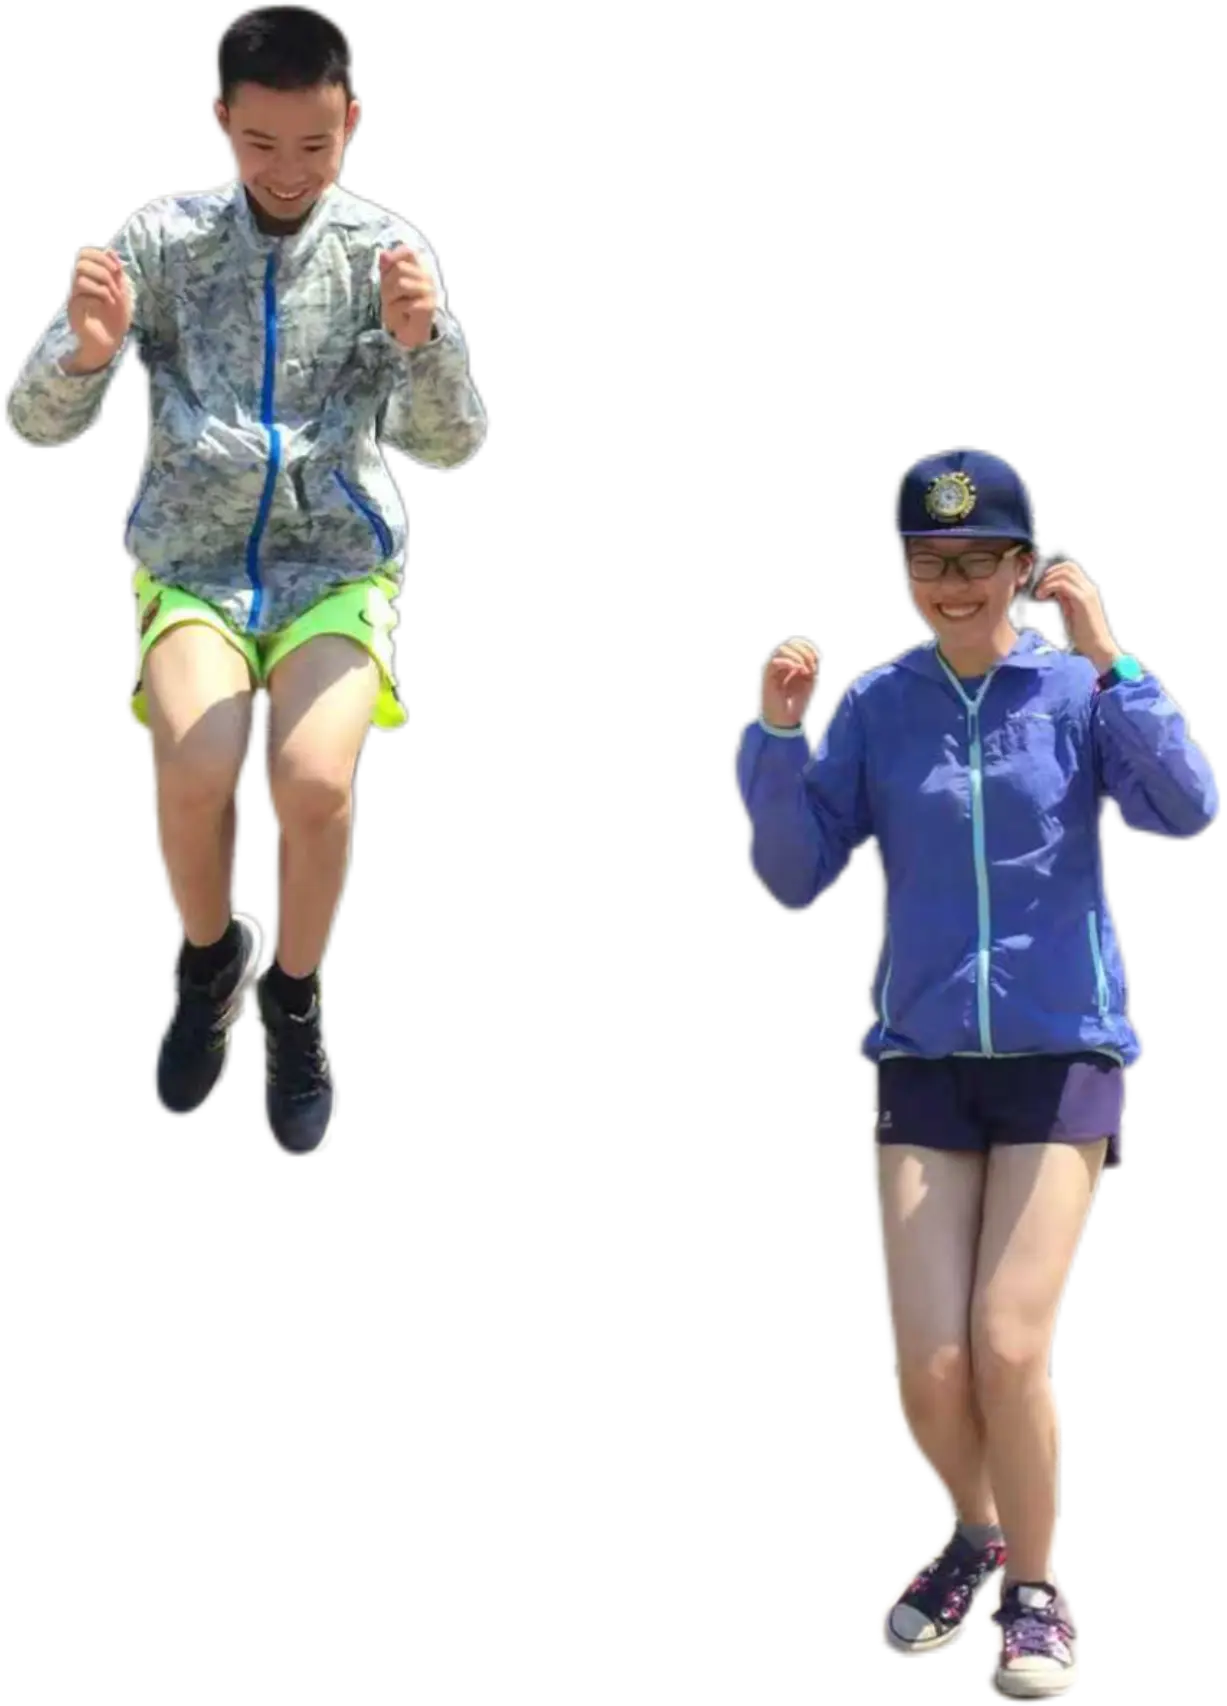
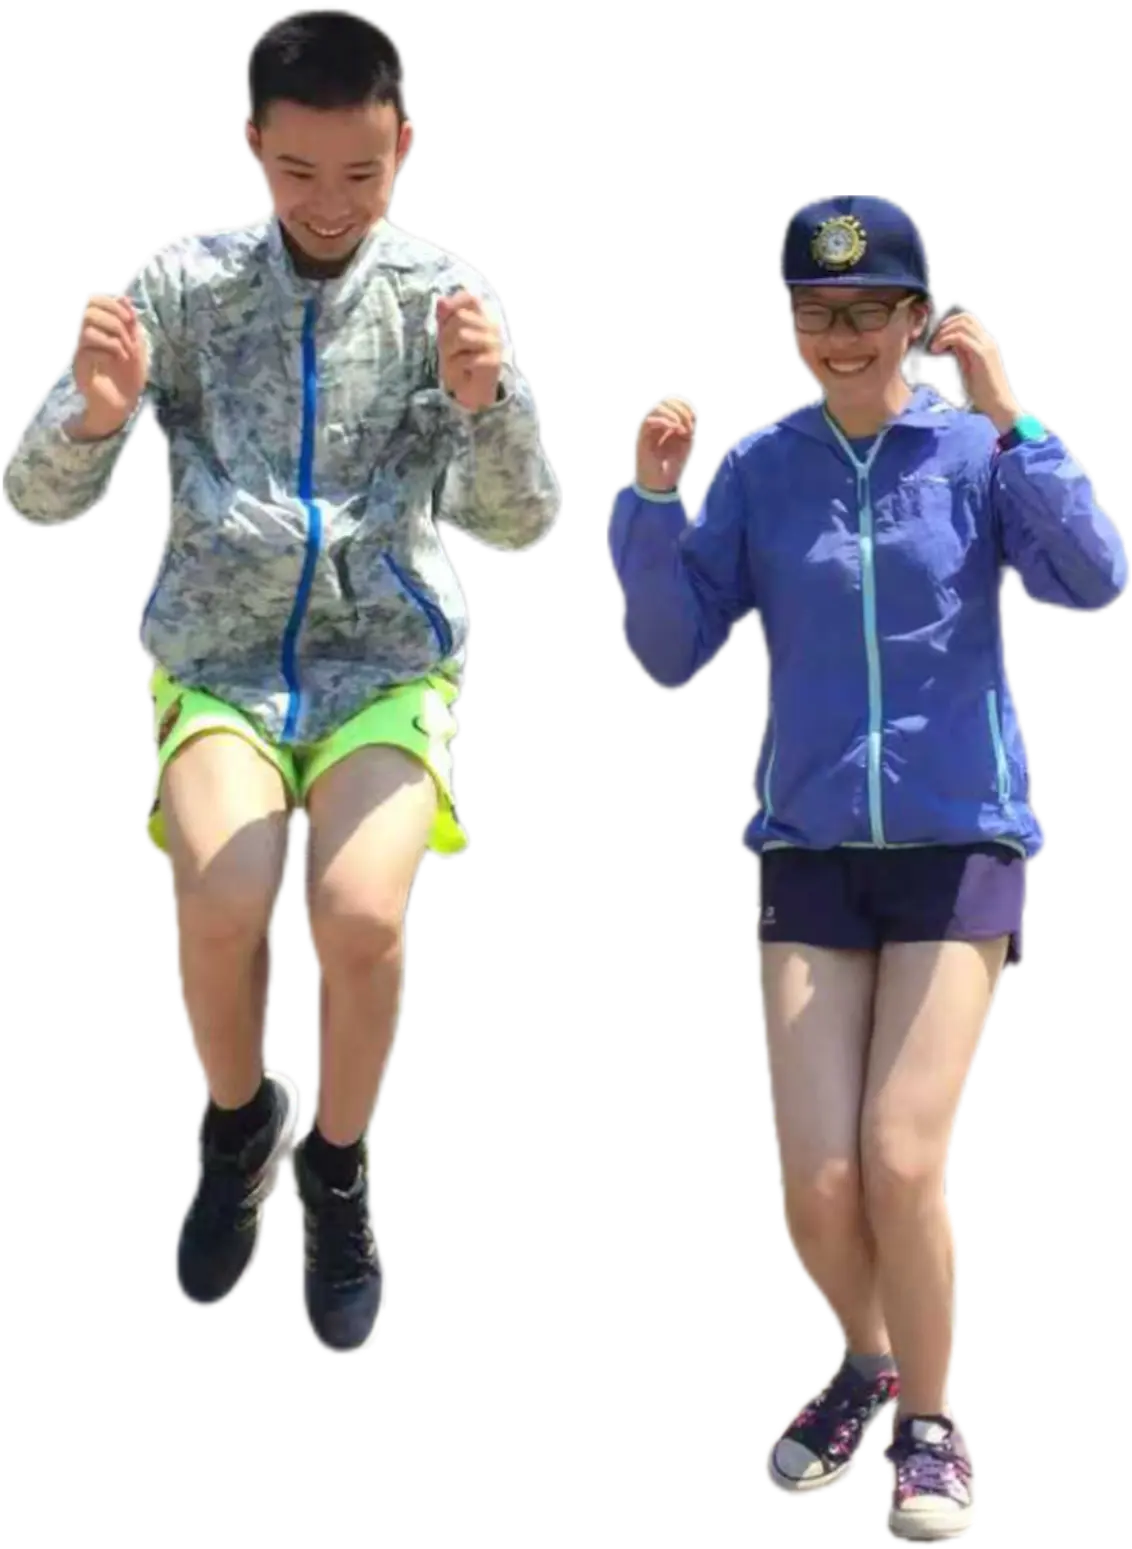
update: page school years

diff --git a/src/pages/index/components/PageSchoolYears.tsx b/src/pages/index/components/PageSchoolYears.tsx
@@ -1,0 +1,127 @@
+import React from "react";
+import { View, Text, Image } from "@tarojs/components";
+import { AnimatedView } from "../../../components/AnimatedView";
+import { YearTitle } from "../../../components/YearTitle";
+import {
+  PageReadyGate,
+  uniqueImageUrls,
+  usePageAnimationsReady,
+} from "../../../components/PageReadyGate";
+import { images } from "../../../utils/assets";
+import { getTimelineLineStyle } from "./distanceTimeline";
+import "./PageDistance.scss";
+
+interface PageSchoolYearsProps {
+  isActive: boolean;
+}
+
+interface SchoolEvent {
+  year: string;
+  label: string;
+  image: string;
+  tilt: number;
+  side: "left" | "right";
+  imageWidth: string;
+  offset: number;
+}
+
+const EVENTS: SchoolEvent[] = [
+  {
+    year: "2008",
+    label: "小学",
+    image: images.elementarySchool,
+    tilt: 0,
+    side: "right",
+    imageWidth: "min(200px, 50vw)",
+    offset: 70,
+  },
+  {
+    year: "2016",
+    label: "初中",
+    image: images.middleSchool,
+    tilt: 0,
+    side: "left",
+    imageWidth: "min(200px, 50vw)",
+    offset: 70,
+  },
+  {
+    year: "2019",
+    label: "高中",
+    image: images.highSchool,
+    tilt: 0,
+    side: "right",
+    imageWidth: "min(200px, 50vw)",
+    offset: 70,
+  },
+];
+
+const PAGE_IMAGES = uniqueImageUrls(EVENTS.map((event) => event.image));
+
+function PageSchoolYearsContent() {
+  const animationsReady = usePageAnimationsReady();
+
+  return (
+    <View className="page page-distance">
+      <View className="distance-header">
+        <YearTitle>2008 — 2019</YearTitle>
+      </View>
+
+      <View
+        className={`timeline-board ${animationsReady ? "timeline-ready" : ""}`}
+        style={getTimelineLineStyle(EVENTS.length)}
+      >
+        <View className="timeline-line" />
+
+        {EVENTS.map((evt, idx) => (
+          <AnimatedView
+            key={`${evt.year}-${evt.label}-${idx}`}
+            animation={evt.side === "left" ? "fadeInLeft" : "fadeInRight"}
+            isActive={animationsReady}
+            delay={600 + idx * 220}
+            duration={800}
+            className="event-row-wrapper"
+          >
+            <View className={`event-row side-${evt.side}`}>
+              <View className="event-marker">
+                <View className="event-dot" />
+              </View>
+
+              <View
+                className="event-content"
+                style={{ transform: `rotate(${evt.tilt}deg)` }}
+              >
+                <View className="event-tag">
+                  <Text className="tag-year">{evt.year}</Text>
+                </View>
+
+                <View
+                  className="event-image-wrap"
+                  style={{
+                    width: evt.imageWidth,
+                    ...(evt.side === "left"
+                      ? { marginRight: `-${evt.offset}px` }
+                      : { marginLeft: `-${evt.offset}px` }),
+                  }}
+                >
+                  <Image
+                    className="event-img no-bg"
+                    src={evt.image}
+                    mode="widthFix"
+                  />
+                </View>
+
+                <Text className="event-caption">{evt.label}</Text>
+              </View>
+            </View>
+          </AnimatedView>
+        ))}
+      </View>
+    </View>
+  );
+}
+
+export const PageSchoolYears: React.FC<PageSchoolYearsProps> = ({ isActive }) => (
+  <PageReadyGate imageUrls={PAGE_IMAGES} isActive={isActive}>
+    <PageSchoolYearsContent />
+  </PageReadyGate>
+);

diff --git a/src/pages/index/index.tsx b/src/pages/index/index.tsx
@@ -13,6 +13,7 @@ import { PageHome } from "./components/PageHome";
 import { PageStoryTitle } from "./components/PageStoryTitle";
 import { PageBirth } from "./components/PageBirth";
 import { PageGrowingUp } from "./components/PageGrowingUp";
+import { PageSchoolYears } from "./components/PageSchoolYears";
 import { PageRelationship } from "./components/PageRelationship";
 import { PageDistance } from "./components/PageDistance";
 import { PageDistance2 } from "./components/PageDistance2";
@@ -26,8 +27,8 @@ import { PageForm } from "./components/PageForm";
 import { RESUME_LAST_PAGE_ENABLED, RESUME_LAST_PAGE_KEY } from "../../constants/config";
 import "./index.scss";
 
-const TOTAL_PAGES = 14;
-const FORM_PAGE_INDEX = 13;
+const TOTAL_PAGES = 15;
+const FORM_PAGE_INDEX = 14;
 const FORM_SCROLL_TOP_THRESHOLD = 8;
 
 function readSavedPageIndex(): number {
@@ -163,24 +164,26 @@ const Index: React.FC = () => {
       case 3:
         return <PageGrowingUp isActive={isActive} />;
       case 4:
-        return <PageRelationship isActive={isActive} />;
+        return <PageSchoolYears isActive={isActive} />;
       case 5:
-        return <PageDistance isActive={isActive} />;
+        return <PageRelationship isActive={isActive} />;
       case 6:
-        return <PageDistance2 isActive={isActive} />;
+        return <PageDistance isActive={isActive} />;
       case 7:
-        return <PageToronto isActive={isActive} />;
+        return <PageDistance2 isActive={isActive} />;
       case 8:
-        return <PageGraduate isActive={isActive} />;
+        return <PageToronto isActive={isActive} />;
       case 9:
-        return <PageLife isActive={isActive} />;
+        return <PageGraduate isActive={isActive} />;
       case 10:
-        return <PageMilestone isActive={isActive} />;
+        return <PageLife isActive={isActive} />;
       case 11:
-        return <PageSchedule isActive={isActive} />;
+        return <PageMilestone isActive={isActive} />;
       case 12:
-        return <PageLocation isActive={isActive} />;
+        return <PageSchedule isActive={isActive} />;
       case 13:
+        return <PageLocation isActive={isActive} />;
+      case 14:
         return (
           <PageForm
             isActive={isActive}

diff --git a/src/utils/assets.ts b/src/utils/assets.ts
@@ -32,6 +32,9 @@ export const images = {
   gaoKidNoBg: resolveImageAssetPath("images/gao-kid-no-bg.webp"),
   childhoodGif: resolveImageAssetPath("images/childhood.gif"),
   togetherKidsNoBg: resolveImageAssetPath("images/together-kids-no-bg.webp"),
+  elementarySchool: resolveImageAssetPath("images/elementary-school.webp"),
+  middleSchool: resolveImageAssetPath("images/middle-school.webp"),
+  highSchool: resolveImageAssetPath("images/high-school.webp"),
   togetherFlower: resolveImageAssetPath("images/together-flower.webp"),
   seattleNoBg: resolveImageAssetPath("images/seattle-no-bg.webp"),
   together2021NoBg: resolveImageAssetPath("images/together-2021-no-bg.webp"),
@@ -70,6 +73,9 @@ const IMAGE_PRELOAD_BYTES: Record<keyof typeof images, number> = {
   gaoKidNoBg: 14_502,
   childhoodGif: 75_684,
   togetherKidsNoBg: 56_480,
+  elementarySchool: 121_280,
+  middleSchool: 106_444,
+  highSchool: 91_048,
   togetherFlower: 115_730,
   seattleNoBg: 23_638,
   together2021NoBg: 55_136,
